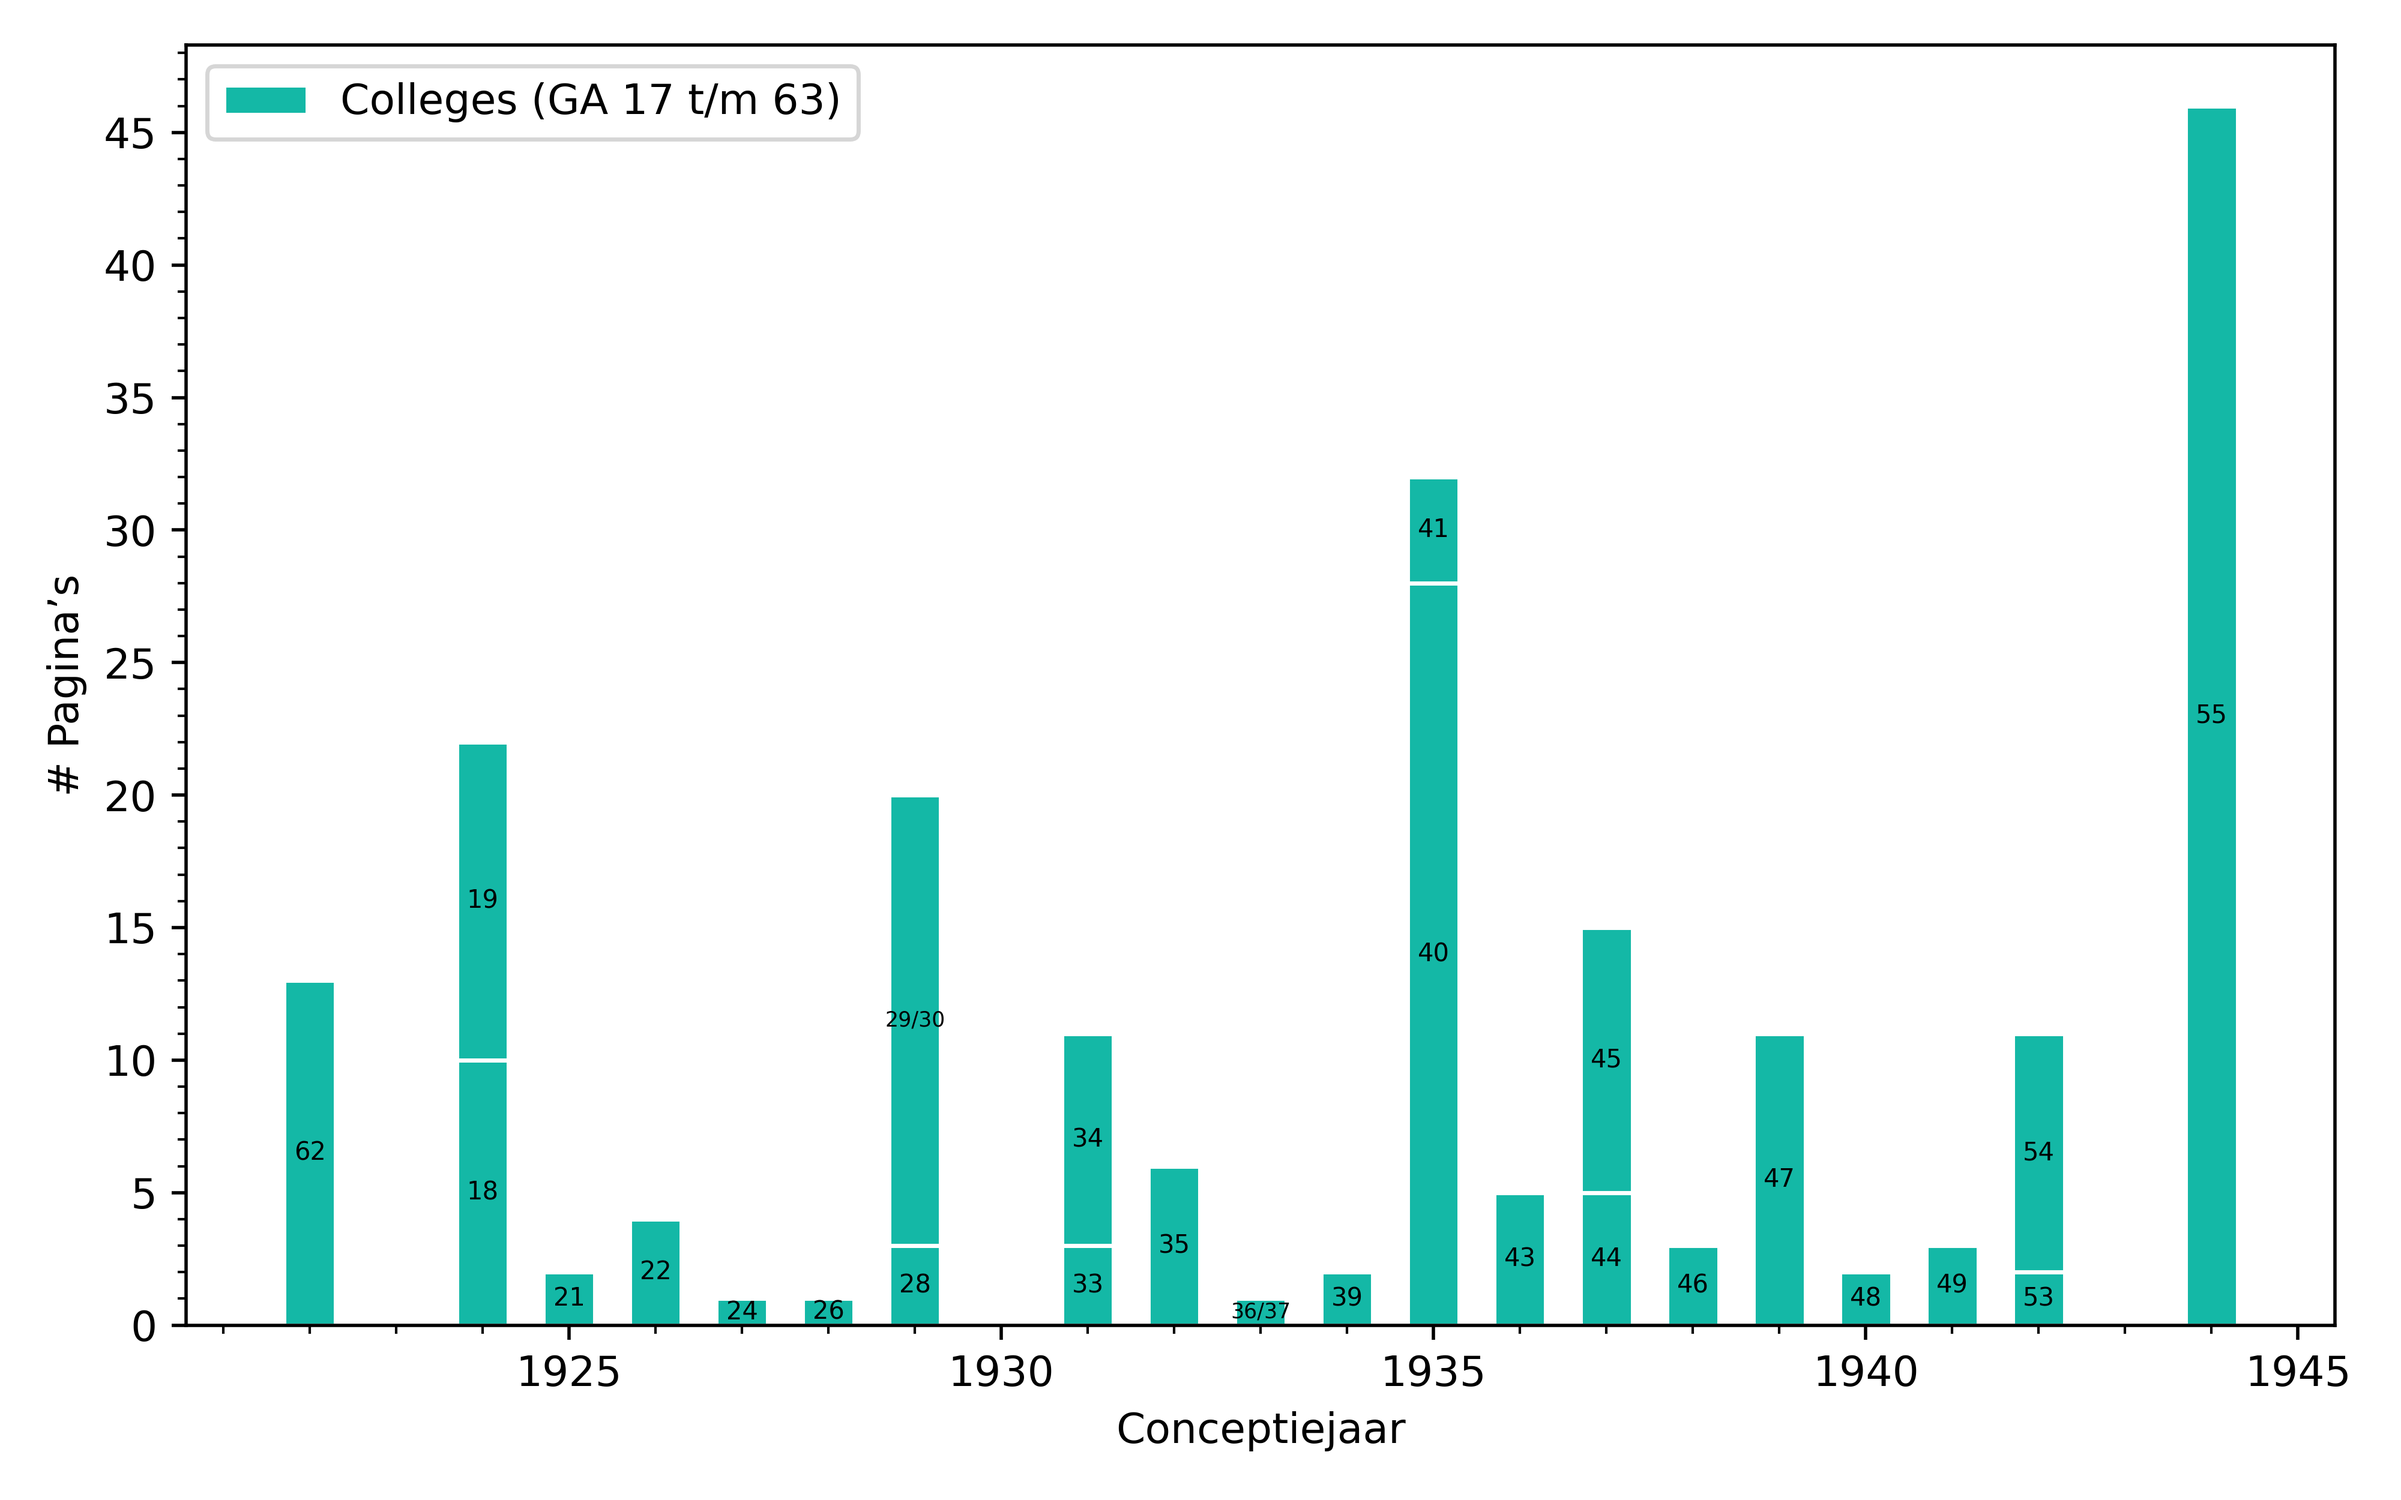
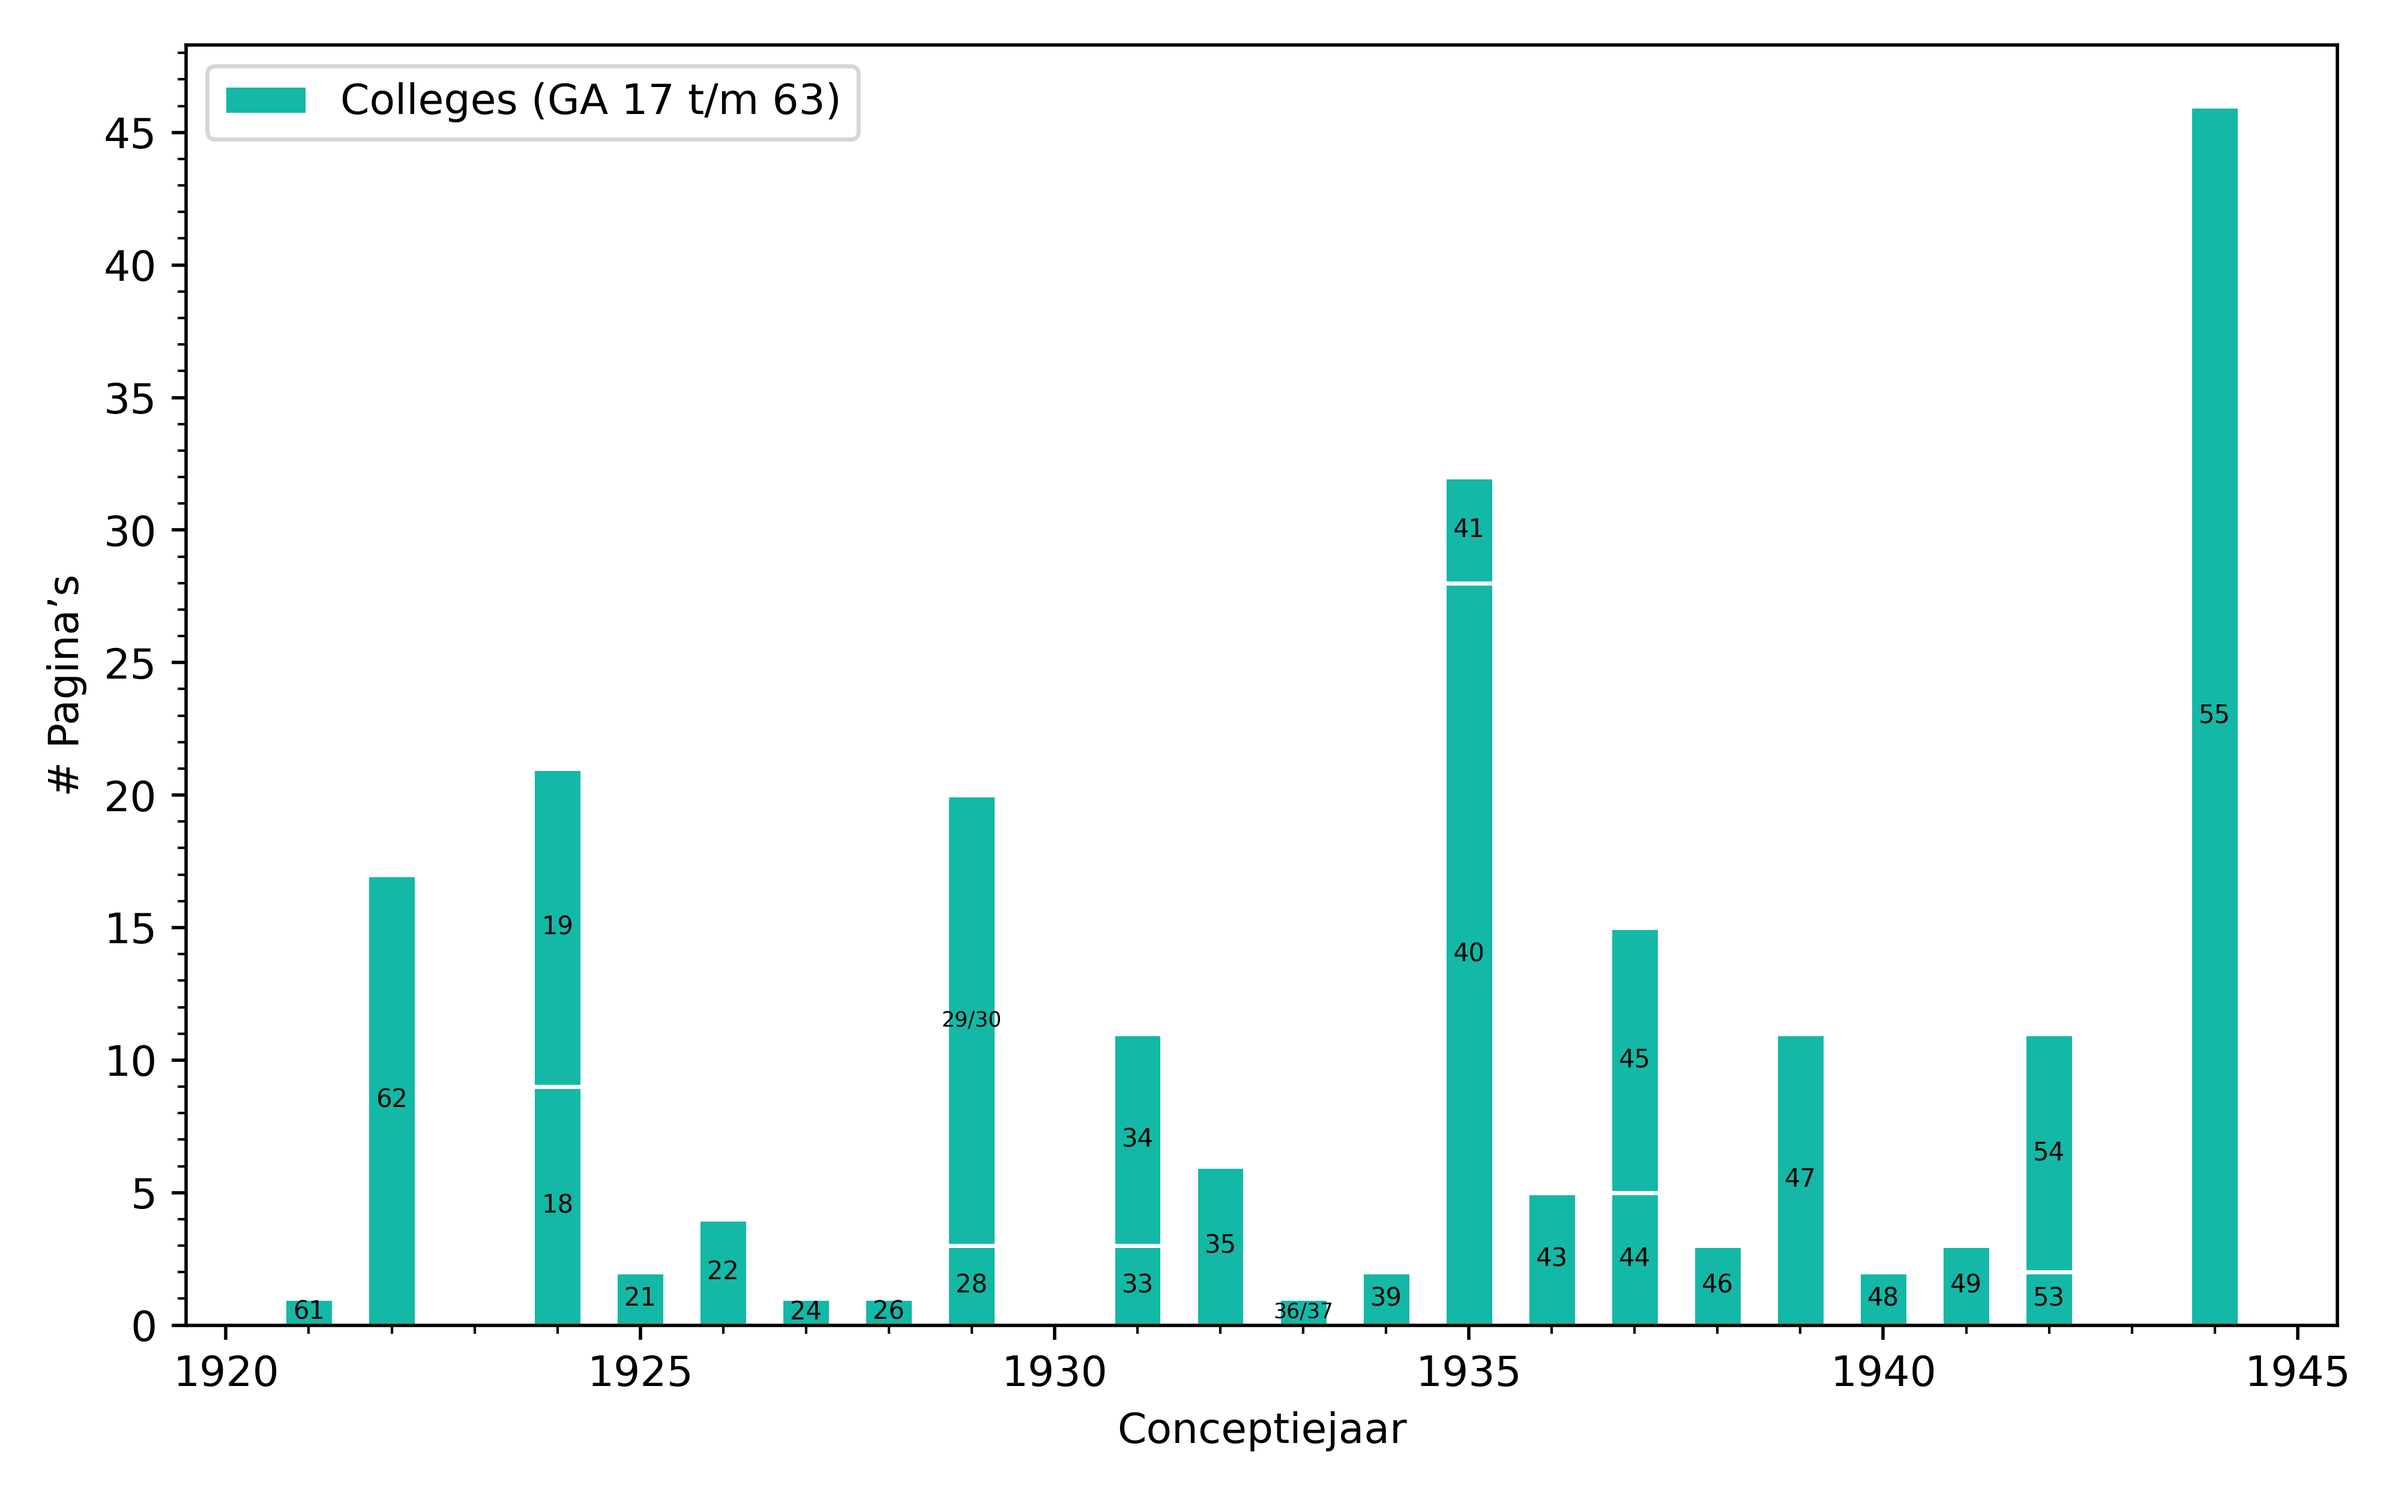
Categorized 61, 62 & 18 and updated some names

diff --git a/load.py b/load.py
@@ -1,6 +1,7 @@
 import yaml
 from typing import TypedDict
-from functools import cache
+
+from utils import first_key, first_item, first_value
 
 
 RefValue = str | int
@@ -31,36 +32,41 @@ class DateValidationError(Exception):
     pass
 
 
-def apply_errata(index, errata):
-    for vol, refs in errata.items():
-        for ref in refs:
-            if isinstance(ref, dict):
-                ref_key, ref_value = next(iter(ref.items()))
+def apply_errata(index: IndexObj, errata: IndexObj):
+    for vol, corrections in errata.items():
+        for corr in corrections:
+            if isinstance(corr, dict) and not isinstance(first_value(corr), list):
+                old_ref, new_ref = first_item(corr)
 
                 try:
-                    ref_index = next(
-                        index
+                    ref_index, orig_ref = next(
+                        (index, orig_ref)
                         for index, orig_ref in enumerate(index[vol])
-                        if ref_key == orig_ref
-                        or (
-                            isinstance(orig_ref, dict)
-                            and ref_key == next(iter(orig_ref.keys()))
-                        )
+                        if old_ref == orig_ref
+                        or (isinstance(orig_ref, dict) and old_ref)
                     )
                 except StopIteration:
                     raise ValidationError(
-                        f"Error correcting volume {vol}: reference {ref} not found (make sure no categories are assigned to this ref in the original index)"
+                        f"Error correcting volume {vol}: reference {corr} not found (make sure no categories are assigned to this ref in the original index)"
                     )
 
-                if ref_value == None:
+                if new_ref == None:
                     # Reference should be removed
                     index[vol].pop(ref_index)
                 else:
                     # Reference should be replaced
-                    index[vol][ref_index] = ref_value
+                    if isinstance(orig_ref, dict):
+                        categories = first_value(orig_ref)
+
+                        new_ref = {new_ref: categories}
+
+                    index[vol][ref_index] = new_ref
             else:
                 # Reference should be added
-                index[vol].append(ref)
+                if vol not in index.keys():
+                    index[vol] = []
+
+                index[vol].append(corr)
 
     return index
 

diff --git a/tests/test_classes.py b/tests/test_classes.py
@@ -6,7 +6,7 @@ import pytest
 def references():
     r1 = Reference.from_yaml({28: "Her123"})
     r2 = Reference.from_yaml("23ff.")
-    r3 = Reference.from_yaml({"30-35": ["Her123", "PhuTex"]})
+    r3 = Reference.from_yaml({"30-35": ["Her123", "techne"]})
 
     return r1, r2, r3
 
@@ -19,7 +19,7 @@ def volume(references):
 @pytest.fixture
 def index():
     return Index.from_yaml(
-        {"6.1": [{28: "Her123"}, "23ff."], 3: [{"30-35": ["Her123", "PhuTex"]}]}
+        {"6.1": [{28: "Her123"}, "23ff."], 3: [{"30-35": ["Her123", "techne"]}]}
     )
 
 
@@ -37,12 +37,12 @@ def test_references(references):
 
     assert r1.categories == {"Her123"}
     assert r2.categories == set()
-    assert r3.categories == {"Her123", "PhuTex"}
+    assert r3.categories == {"Her123", "techne"}
 
 
 def test_volume(volume):
     assert volume.name == "6.1"
-    assert volume.part == "published"
+    assert volume.part_name == "published"
     assert len(volume) == 10
     assert [str(r) for r in volume] == ["23ff", "28", "30-35"]
 

diff --git a/aggregates.py b/aggregates.py
@@ -1,0 +1,42 @@
+import yaml
+from pathlib import Path
+
+
+from index import get_index, get_dating, Index, Dating
+
+
+def by_year(index: Index, dating: Dating):
+
+    data = {}
+
+    for vol in index.volumes:
+        for ref in vol:
+            year = str(dating.get_year(vol, ref))
+
+            year_dict = data.get(year, {})
+            vol_list = year_dict.get(vol.name, [])
+            vol_list.append(str(ref))
+
+            year_dict[vol.name] = vol_list
+            data[year] = year_dict
+
+    return data
+
+
+if __name__ == "__main__":
+    index = get_index()
+    dating = get_dating("orig")
+
+    data = by_year(index, dating)
+
+    with open(Path("aggregates", "by-year.yml"), "w") as f:
+        yaml.safe_dump(data, f)
+
+    categories = set()
+
+    for vol in index:
+        for ref in vol.references:
+            categories.update(ref.categories)
+
+    with open(Path("aggregates", "categories.yml"), "w") as f:
+        yaml.safe_dump(sorted(categories), f)

diff --git a/utils.py b/utils.py
@@ -17,3 +17,15 @@ def find_closest_preceding_number(sorted_numbers: list[int], n: int) -> int | No
 
 def volume_sort_key(volume_str: str):
     return tuple(int(n) for n in re.findall(r"\d+", volume_str))
+
+
+def first_value(obj: dict):
+    return next(iter(obj.values()))
+
+
+def first_item(obj: dict):
+    return next(iter(obj.items()))
+
+
+def first_key(obj: dict):
+    return next(iter(obj.keys()))

diff --git a/README.md b/README.md
@@ -54,41 +54,54 @@ We sommen hieronder de gebruikte categorieën op in de drie genoemde groepen.
 
 ### Antieke referenties
 
-|     Code | Toelichting                                 |
-| -------: | :------------------------------------------ |
-| `Her123` | Heraclitus, fr. 123: φύσις κρύπτεσθαι φιλεῖ |
-| `Emped8` | Empedocles, Fr. 8                           |
-| `Aia647` | Sophokles, *Aias*, vs. 647 (φύειν)          |
-| `Platon` | φύσις bij Plato                             |
+|          Code | Toelichting                                             |
+| ------------: | :------------------------------------------------------ |
+|      `Her123` | Heraclitus, fr. 123: φύσις κρύπτεσθαι φιλεῖ             |
+|      `Emped8` | Empedocles, Fr. 8                                       |
+|      `Aia647` | Sophokles, *Aias*, vs. 647 (φύειν)                      |
+|      `Platon` | φύσις bij Plato                                         |
+| `Aristoteles` | φύσις bij Aristoteles                                   |
+|     `AriPZMA` | Aristoteles, Περὶ ζῴων μορίων (*De Partibus Animalium*) |
+|  `Parmenides` | φύσις bij Parmenides                                    |
 
 ### Vertalingen
 
-|     Code | Toelichting                                 |
-| -------: | :------------------------------------------ |
-| `SeiIGa` | Vert. als *Seiende im Ganzen*               |
-| `SeAlSo` | Vert. als *Seiende als solches*             |
-| `ReiAuf` | Vert. als *Reine Aufgehen*                  |
-| `Aufgeh` | Vert. als *Aufgehen*                        |
-| `Aufgan` | Vert. als *Aufgang*                         |
-| `Hervor` | Vert. als *Hervorbringen*                   |
-| `Anwahr` | Vert. als *Anwähren*                        |
+|       Code | Toelichting                     |
+| ---------: | :------------------------------ |
+|   `SeiIGa` | Vert. als *Seiende im Ganzen*   |
+|   `SeAlSo` | Vert. als *Seiende als solches* |
+|   `ReiAuf` | Vert. als *Reine Aufgehen*      |
+|   `Aufgeh` | Vert. als *Aufgehen*            |
+|   `Aufgan` | Vert. als *Aufgang*             |
+|   `Hervor` | Vert. als *Hervorbringen*       |
+|   `Anwahr` | Vert. als *Anwähren*            |
+|  `Ausgang` | Vert. als *Ausgang*             |
+|  `Wiesein` | Vert. als *Wie-sein*            |
+| `Vorgehen` | Vert. als *Vorgehen*            |
 
 ### Andere begrippen
 
-|     Code | Toelichting                                 |
-| -------: | :------------------------------------------ |
-| `PhuNat` | φύσις en natuur                             |
-| `PhuErd` | φύσις en aarde                              |
-| `PhuTex` | φύσις tegenover τέχνη                       |
-| `PhuLet` | φύσις tegenover λήθη                        |
-| `PhuThe` | φύσις tegenover θέσις                       |
-| `PhuAle` | φύσις en ἀλήθεια                            |
-| `PhuLog` | φύσις en λόγος                              |
-| `PhuMoi` | φύσις en Μοῖρα                              |
-| `PhuPoi` | φύσις en ποίησις                            |
-| `Verneh` | *Vernehmende des Seienden* / φύσις en νοεῖν |
-| `Entmac` | *Entmachtung der* φύσις                     |
-| `Physik` | Physik                                      |
+|          Code | Toelichting             |
+| ------------: | :---------------------- |
+|       `natur` | Natuur                  |
+|        `erde` | Aarde                   |
+|      `techne` | τέχνη                   |
+|       `lethe` | λήθη                    |
+|      `thesis` | θέσις                   |
+|    `aletheia` | ἀλήθεια                 |
+|       `logos` | λόγος                   |
+|       `Moira` | Μοῖρα                   |
+|     `poiesis` | ποίησις                 |
+|          `on` | ὄν                      |
+|       `ousia` | οὐσία                   |
+|     `kinesis` | κίνησις                 |
+|       `noein` | νοεῖν                   |
+|       `polis` | πόλις                   |
+| `Entmachtung` | *Entmachtung der* φύσις |
+|      `Physik` | Physik                  |
+|    `Seienden` | Seienden                |
+|        `Sein` | Sein                    |
+|   `Seinssinn` | Seinsinn                |
 
 ### Variatie
 
